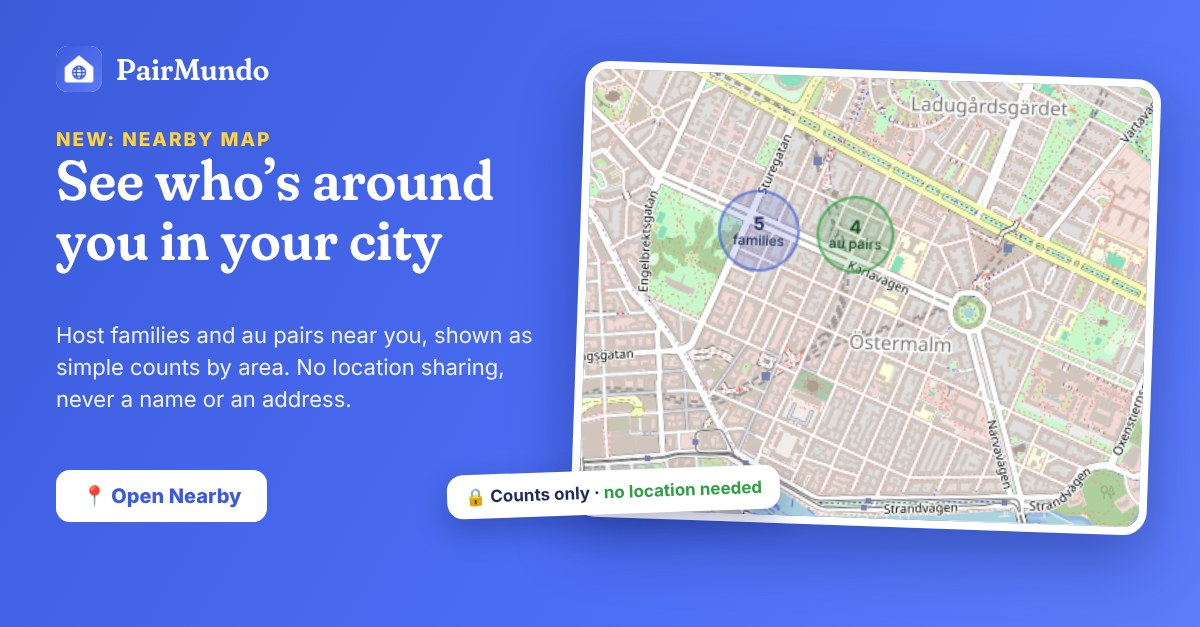
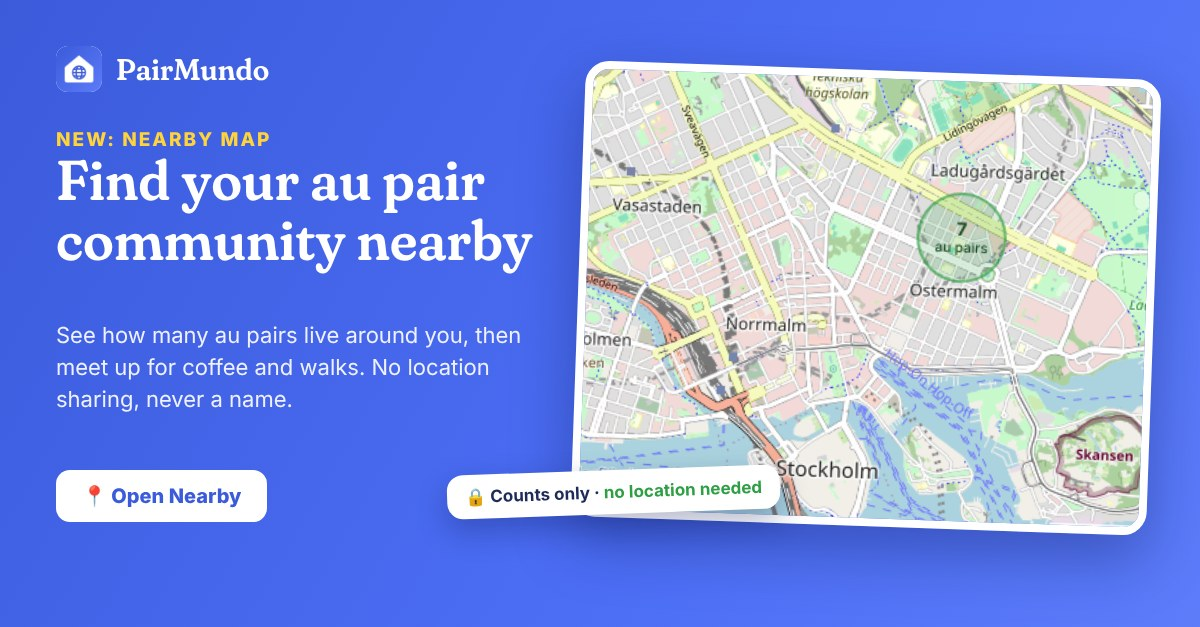
Nearby map: families stay off the map until they turn Nearby on, and au pairs never see them
Au pairs still count at their profile city without setting up Nearby, so
newcomers find their community. Families count only once they turn Nearby
on and stay visible, and only other such families see them. The email
picture now shows the au pair map.

Claude-Session: https://claude.ai/code/session_01HXmLkaqE1oXwDSoNVbNuvY

Changed region(s): [[0.0308, 0.0909, 0.9867, 0.8485]]

diff --git a/server/test/nearby.test.js b/server/test/nearby.test.js
@@ -280,36 +280,42 @@ test('people nearby: suburbs within 30 km count toward the big city when both sh
   assert.equal((await call(nopt.token, 'GET', '/nearby')).body.city.people, 1);
 });
 
-test('map: everyone counts at the general spot of their profile city, without turning on Nearby or location', async () => {
-  const viewer = await member('gv@geo.io', 'family', 'Geo Viewer');
-  const sto = await member('g1@geo.io', 'family', 'Geo One');
-  const sol = await member('g2@geo.io', 'family', 'Geo Two', { city: 'Solna' });
-  const sod = await member('g3@geo.io', 'family', 'Geo Three', { city: 'Södermalm' });
-  const hid = await member('g4@geo.io', 'family', 'Geo Hidden');
-  const upp = await member('g5@geo.io', 'family', 'Geo Uppsala', { city: 'Uppsala' });
-  await member('g6@geo.io', 'aupair', 'Geo Aupair');
-  // One family turned Nearby on and chose to hide: they stay off the map.
+test('map: au pairs count at their profile city without Nearby or location; families only once they turn Nearby on', async () => {
+  const ap = await member('gv@geo.io', 'aupair', 'Geo Viewer');
+  for (const [i, city] of ['Stockholm', 'Solna', 'Södermalm', 'Uppsala'].entries()) await member(`ga${i}@geo.io`, 'aupair', `Geo Pair${i}`, { city });
+  const hid = await member('gh@geo.io', 'aupair', 'Geo Hidden');
   await call(hid.token, 'PUT', '/me/nearby', { city: 'Stockholm', country: 'SE', visible: false });
-  // The viewer never set up Nearby: the map works from their profile city.
-  const map = (await call(viewer.token, 'GET', '/nearby/map')).body;
+  const fams = [];
+  for (let i = 0; i < 3; i++) fams.push(await member(`gf${i}@geo.io`, 'family', `Geo Fam${i}`));
+
+  // An au pair who never set up Nearby sees au pairs around Stockholm, at the city's general spot, as counts only.
+  const map = (await call(ap.token, 'GET', '/nearby/map')).body;
   assert.equal(map.settings, null);
   assert.deepEqual(map.center, { lat: 59.34, lng: 18.08 });
-  // The viewer, Geo One and the Stockholm family from the first test share Stockholm's general spot: a bubble of 3.
-  // Solna and Södermalm have one family each, too few for their own bubble, so they join Stockholm's: 5 in all.
-  // The hidden family, the au pair and Uppsala (over 30 km away) never count. Only general spots go out, never a person.
-  assert.deepEqual(map.areas, [{ lat: 59.34, lng: 18.08, count: 5 }]);
-  const total = 5;
+  assert.equal(map.areas.length, 1);
+  assert.ok(map.areas[0].count >= 3);
   assert.ok(!JSON.stringify(map).includes('Geo '));
-  // Au pairs around Stockholm show too, in their own bubbles, as counts only.
-  assert.ok(map.other_areas.length > 0);
-  assert.ok(map.other_areas.every((a) => a.role === 'aupair' && a.count >= 3));
-  assert.ok(map.areas.every((a) => !('role' in a)));
-  // Nobody is counted twice, and the hidden family really is left out.
+  // Families are never shown to au pairs.
+  assert.deepEqual(map.other_areas, []);
+  // The hidden au pair is left out until they show themselves; Solna and Södermalm join Stockholm, Uppsala (65 km) doesn't.
+  const count = (m) => m.areas.reduce((n, x) => n + x.count, 0);
   await call(hid.token, 'PUT', '/me/nearby', { city: 'Stockholm', country: 'SE', visible: true });
-  const after = (await call(viewer.token, 'GET', '/nearby/map')).body.areas.reduce((n, a) => n + a.count, 0);
-  assert.equal(after, total + 1);
-  void sto; void sol; void sod; void upp;
+  assert.equal(count((await call(ap.token, 'GET', '/nearby/map')).body), count(map) + 1);
+
+  // A family off Nearby sees the au pairs, but no families: families aren't counted until they turn Nearby on.
+  let fm = (await call(fams[0].token, 'GET', '/nearby/map')).body;
+  assert.deepEqual(fm.areas, []);
+  assert.ok(fm.other_areas.length && fm.other_areas.every((x) => x.role === 'aupair' && x.count >= 3));
+  // Once three families turn Nearby on (with the Stockholm family from the first test), they see each other as a count.
+  for (const f of fams) await call(f.token, 'PUT', '/me/nearby', { city: 'Stockholm', country: 'SE' });
+  fm = (await call(fams[0].token, 'GET', '/nearby/map')).body;
+  assert.equal(count(fm), 4);
+  // A family who hides sees no families and isn't counted.
+  await call(fams[1].token, 'PUT', '/me/nearby', { city: 'Stockholm', country: 'SE', visible: false });
+  assert.deepEqual((await call(fams[1].token, 'GET', '/nearby/map')).body.areas, []);
+  assert.equal(count((await call(fams[0].token, 'GET', '/nearby/map')).body), 3);
+
   // Without a city on the profile there is nowhere to put the map yet.
-  const nocity = await member('g7@geo.io', 'family', 'Geo Nocity', { city: null });
+  const nocity = await member('g7@geo.io', 'aupair', 'Geo Nocity', { city: null });
   assert.equal((await call(nocity.token, 'GET', '/nearby/map')).body.needs_city, true);
 });

diff --git a/server/server/nearby.js b/server/server/nearby.js
@@ -558,9 +558,9 @@ export function mountNearby(api, deps) {
   // ---------- the map ----------
   // Never a pin per person: meetups as pins (rounded unless you're going), and people as counts per area of about
   // 5 km, shown only where at least MAP_MIN_BUBBLE people are, so no bubble points at one person.
-  // Everyone counts, not only people who set up Nearby: someone who shared a point counts there, and everyone else
-  // counts at the general spot of the city or neighbourhood on their profile (geo.js), so nobody has to turn on
-  // location. Only people who turned Nearby on and chose to hide are left out.
+  // Au pairs count whether or not they set up Nearby: at their shared point, or else at the general spot of the city or
+  // neighbourhood on their profile (geo.js), so nobody has to turn on location. Au pairs who turned Nearby on and chose
+  // to hide are left out. Families count only once they turn Nearby on, and only other such families see them.
   const MAP_CELL = 0.05;
   const MAP_MIN_BUBBLE = 3;
   /** Members of role active lately and in good standing, with their Nearby row if they have one. */
@@ -575,7 +575,10 @@ export function mountNearby(api, deps) {
     const area = settings ?? (me.city && me.country ? { city: me.city, city_key: cityKey(me.city), country: String(me.country).toUpperCase(), lat: null, lng: null, visible: 0 } : null);
     if (!area) return { settings: null, needs_city: true };
     const other = me.role === 'family' ? 'aupair' : 'family';
-    const rowsOf = (role) => mapPeople(area.country, role, me.demo).filter((u) => u.n_visible !== 0);
+    // Au pairs count wherever they are, so newcomers find their community. Families count only once they turned Nearby
+    // on and chose to be seen, are shown only to other families who did the same, and never to au pairs.
+    const rowsOf = (role) => mapPeople(area.country, role, me.demo)
+      .filter((u) => (role === 'family' ? u.n_visible === 1 : u.n_visible !== 0));
     const byRole = { [me.role]: rowsOf(me.role), [other]: rowsOf(other) };
     const placeOf = (u) => (u.n_lat != null ? null : [u.n_city || u.city, area.country]);
     await geo.warm([[area.city, area.country], ...[...byRole[me.role], ...byRole[other]].map(placeOf).filter(Boolean)]);
@@ -609,8 +612,9 @@ export function mountNearby(api, deps) {
     };
     // areas: your own side, as the apps have always read it. other_areas: the other side (au pairs for a family,
     // families for an au pair), with role, for apps that show both.
-    const areas = bubbles(byRole[me.role]);
-    const otherAreas = bubbles(byRole[other]).map((x) => ({ ...x, role: other }));
+    const familiesSee = me.role === 'family' && settings?.visible === 1;
+    const areas = me.role === 'family' && !familiesSee ? [] : bubbles(byRole[me.role]);
+    const otherAreas = other === 'family' ? [] : bubbles(byRole[other]).map((x) => ({ ...x, role: other }));
     const meetups = meetupsIn(area, me).filter((m) => m.point);
     const listed = settings ? cityPeople(settings, me.role, me.demo).length : 0;
     return {

diff --git a/server/public/app.js b/server/public/app.js
@@ -1253,8 +1253,8 @@ async function nearbyMap(box, isFamily) {
     else if (pts.length || d.center) map.setView(pts[0] || [d.center.lat, d.center.lng], 13);
     else map.setView([59.33, 18.07], 4);
     document.getElementById('nbMapNote').textContent = `${isFamily
-      ? tr('Pins are meetups. Bubbles show how many families (blue) and au pairs (green) are in each part of town, never where anyone is. A meetup pin is approximate until you join.')
-      : tr('Pins are meetups. Bubbles show how many au pairs (blue) and families (green) are in each part of town, never where anyone is. A meetup pin is approximate until you join.')}${d.city && !d.areas.length && !d.other_areas?.length ? ` ${tr('A bubble appears once 3 or more people are in an area.')}` : ''}`;
+      ? tr('Pins are meetups. Bubbles show how many au pairs (green) and families on Nearby (blue) are in each part of town, never where anyone is. A meetup pin is approximate until you join.')
+      : tr('Pins are meetups. Bubbles show how many au pairs are in each part of town, never where anyone is. A meetup pin is approximate until you join.')}${d.city && !d.areas.length && !d.other_areas?.length ? ` ${tr('A bubble appears once 3 or more people are in an area.')}` : ''}`;
   } catch (e) { box.innerHTML = `<div class="alert error">${esc(e.message)}</div>`; }
 }
 views.nearby = async (_, qs) => {
@@ -1269,12 +1269,12 @@ views.nearby = async (_, qs) => {
     render(`<div style="max-width:720px;margin:0 auto">${intro}
       <div class="card"><strong>${tr('Your privacy comes first')}</strong><ul class="small">
         <li>${tr('Off until you turn it on. Turn it off any time and we forget your city.')}</li>
-        <li>${tr('Until then you only count in a number on the map, like "5 families" in your city, never by name.')}</li>
+        <li>${isFamily ? tr('Families never show on the map until they turn Nearby on, and then only to other families, as a number.') : tr('Until then you only count in a number on the map, like "5 au pairs" in your city, never by name.')}</li>
         <li>${tr('Others see your city and a rough distance like "under 5 km", never where you live.')}</li>
         <li>${isFamily ? tr('Families see families. Au pairs see au pairs.') : tr('Au pairs see au pairs. Families only find you if you say so.')}</li>
         <li>${tr('Meetups are in public places. Block or report anyone, any time.')}</li></ul></div>
       ${nearbySettingsForm(null, isFamily)}
-      ${me.user.city ? `<h2>${isFamily ? tr('Families around you') : tr('Au pairs around you')}</h2><div id="nbPreview"></div>` : ''}
+      ${me.user.city ? `<h2>${tr('Au pairs around you')}</h2><div id="nbPreview"></div>` : ''}
       ${d.my_meetups?.length ? `<h2>${tr('Your meetups')}</h2>${d.my_meetups.map(nearbyMeetupCard).join('')}` : ''}</div>`);
     // A first look at the map, from the city on their profile, before they turn anything on.
     const preview = document.getElementById('nbPreview');
